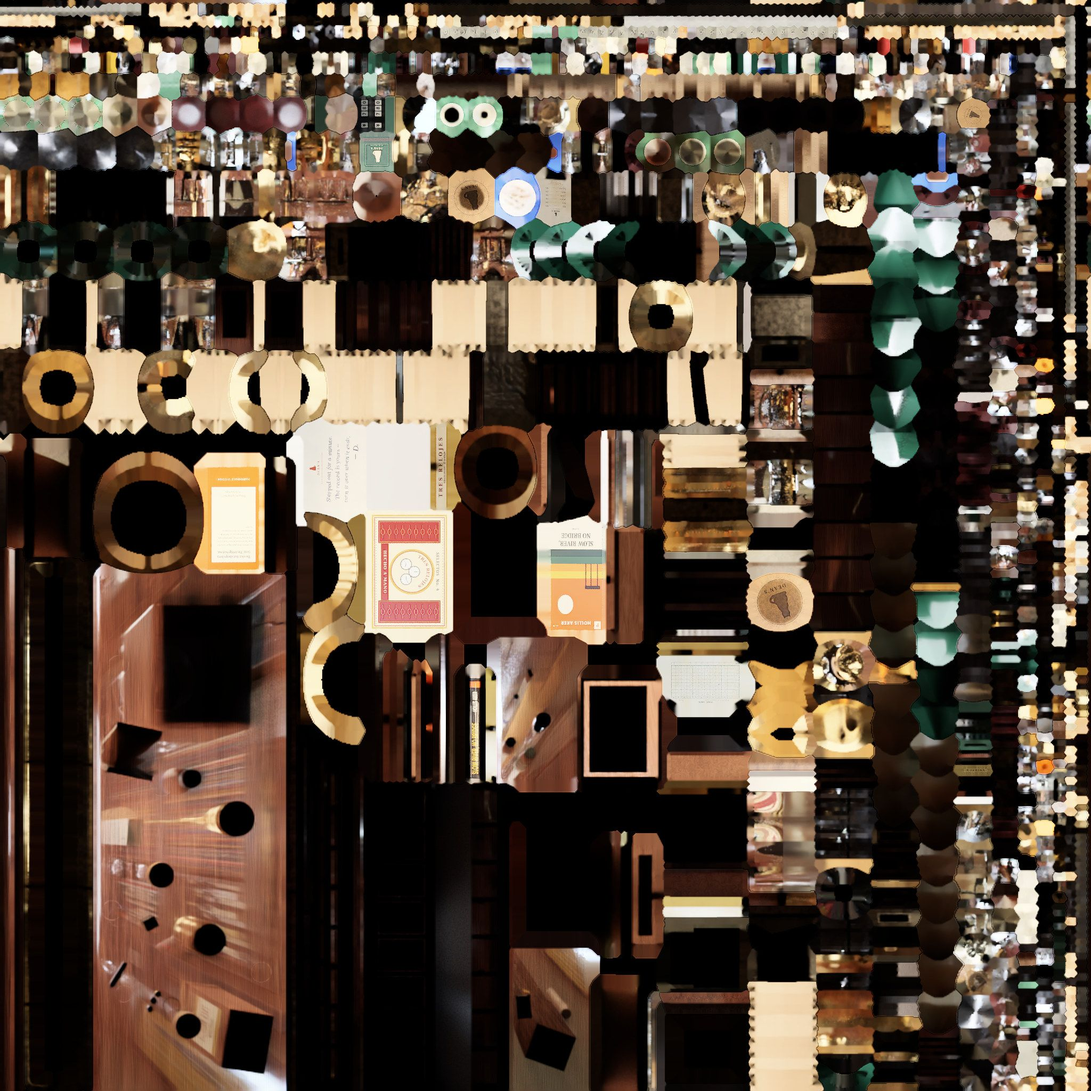
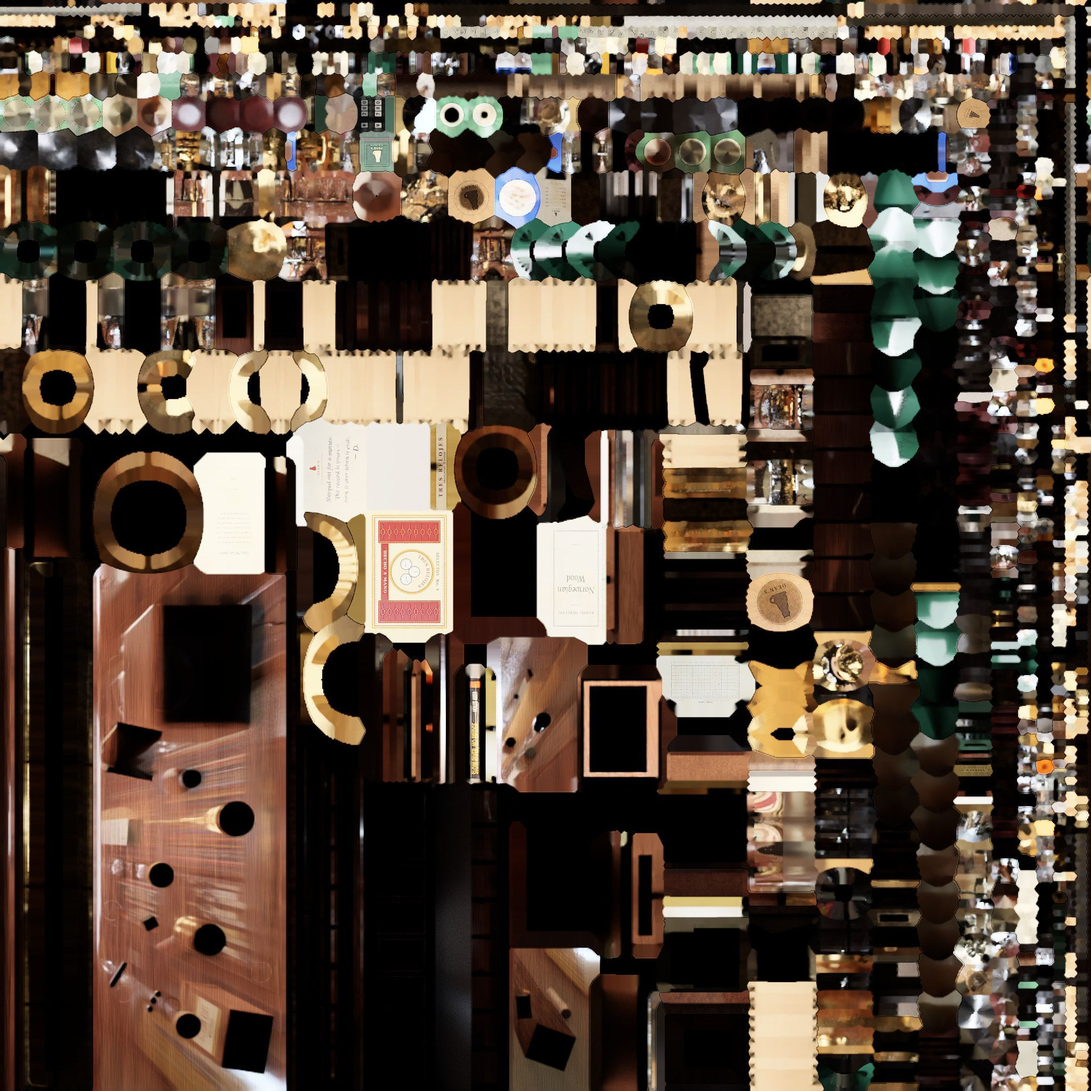
Paperback on the counter: Norwegian Wood, plain typographic cover
Replaces the invented, illustrated paperback with a quiet cream-and-green
cover for Haruki Murakami's Norwegian Wood and updates the Currently
reading panel. Only the two cover islands of the counter bake are
replaced; the rest of counter_{night,day}.jpg is untouched.

Claude-Session: https://claude.ai/code/session_01Q5tZYtXFDhKRGtgnphfBLn

Changed region(s): [[0.1562, 0.4062, 0.25, 0.5312], [0.4688, 0.5, 0.5625, 0.5938]]

diff --git a/site/content.js b/site/content.js
@@ -188,9 +188,9 @@ export const ODDS = {
 
 // ---------------------------------------------------------------- the paperback on the counter
 export const PAPERBACK = {
-  title: 'Seven Rooms Below the Station', author: 'Haru Okabe', price: '¥480', page: 'p. 211 of 340',
-  blurb: 'A night porter at a station hotel discovers that the service lift stops at a floor that is not on any plan. He decides not to mention it. Then he decides to go and look.',
-  note: 'Reading it slowly, one chapter after closing. Halfway through and still not sure whether it is a ghost story or a book about work. Possibly both. (Invented book; sample content.)',
+  title: 'Norwegian Wood', author: 'Haruki Murakami', price: '¥480', page: 'p. 142',
+  blurb: 'Tokyo, the late sixties. A quiet student is caught between two young women: one slowly withdrawing from the world, one who walks straight into his life. Years later, a song heard by chance brings it all back.',
+  note: 'Reading it again, one chapter after closing. It reads differently down here, with a record still turning. (Sample note.)',
 };
 
 // ---------------------------------------------------------------- the pay phone: contact

diff --git a/blender/parts/counter/tex.py b/blender/parts/counter/tex.py
@@ -349,69 +349,59 @@ def p_keys(w, h):
     return im
 
 def p_book(w, h):
-    """full cover spread: back | spine | front ; 1970s paperback, worn"""
+    """full cover spread: back | spine | front ; a plain, well-read paperback of Norwegian Wood (typographic, no art)"""
     bw = int(w * 0.465); sw = w - 2 * bw   # back, spine, front widths
-    org = (196, 88, 30); mus = (214, 162, 52); grn = (40, 72, 52); crm = (236, 222, 190); dk = (30, 20, 16)
-    im = Image.new('RGBA', (w, h), (*org, 255)); d = ImageDraw.Draw(im)
-    # FRONT (right): flat 70s illustration: river bands, a pale moon, a broken bridge stub
+    crm = (230, 221, 198); grn = (34, 58, 44); ink = (32, 28, 24); mut = (96, 104, 92)
+    im = paper(w, h, crm, seed=94, grain=7, stain=0.35).convert('RGBA'); d = ImageDraw.Draw(im)
     fx = bw + sw
-    d.rectangle((fx, 0, w, h), fill=(*org, 255))
-    for k, c in enumerate([mus, (226, 120, 40), grn, (24, 46, 38)]):
-        y0 = int(h * (0.50 + 0.07 * k))
-        d.rectangle((fx, y0, w, y0 + int(h * 0.07)), fill=(*c, 255))
-    d.rectangle((fx, int(h * 0.78), w, h), fill=(*crm, 255))
-    d.ellipse((fx + bw * 0.55, h * 0.16, fx + bw * 0.85, h * 0.16 + bw * 0.30), fill=(*crm, 255))
-    d.rectangle((fx + bw * 0.04, h * 0.40, fx + bw * 0.32, h * 0.43), fill=(*dk, 255))       # bridge deck that stops
-    for px in (0.08, 0.2, 0.30): d.rectangle((fx + bw * px, h * 0.43, fx + bw * px + 8, h * 0.64), fill=(*dk, 255))
-    text_c(d, fx + bw / 2, h * 0.04, "HOLLIS AKER", F(F_POP_B, int(h * 0.05)), (*crm, 255), spacing=3)
-    text_c(d, fx + bw / 2, h * 0.795, "SLOW RIVER,", F(F_CAL_B, int(h * 0.07)), (*dk, 255))
-    text_c(d, fx + bw / 2, h * 0.87, "NO BRIDGE", F(F_CAL_B, int(h * 0.07)), (*dk, 255))
-    text_c(d, fx + bw / 2, h * 0.955, "a novel", F(F_CAL_I, int(h * 0.03)), (*dk, 255))
-    d.rectangle((fx + 14, 14, fx + 70, 70), fill=(*crm, 255)); text_c(d, fx + 42, 22, "P", F(F_SERIF_B, 36), (*org, 255))
-    text_c(d, w - 50, 26, "$1.50", F(F_SANS_B, 18), (*crm, 255))
-    # SPINE
-    d.rectangle((bw, 0, bw + sw, h), fill=(*dk, 255))
+    # FRONT (right): thin green frame, author, title, nothing else
+    m = int(bw * 0.07)
+    d.rectangle((fx + m, m, w - m, h - m), outline=(*grn, 255), width=3)
+    d.rectangle((fx + m + 9, m + 9, w - m - 9, h - m - 9), outline=(*grn, 200), width=1)
+    cx = fx + bw / 2
+    text_c(d, cx, h * 0.15, "HARUKI MURAKAMI", lora(int(h * 0.034), wght=500), (*ink, 255), spacing=5)
+    d.line((cx - bw * 0.10, h * 0.245, cx + bw * 0.10, h * 0.245), fill=(*grn, 255), width=2)
+    text_c(d, cx, h * 0.33, "Norwegian", lora(int(h * 0.088), italic=True, wght=500), (*grn, 255))
+    text_c(d, cx, h * 0.44, "Wood", lora(int(h * 0.088), italic=True, wght=500), (*grn, 255))
+    text_c(d, cx, h * 0.80, "a novel", lora(int(h * 0.032), italic=True), (*mut, 255))
+    # SPINE: deep green, cream lettering
+    d.rectangle((bw, 0, bw + sw, h), fill=(*grn, 255))
     sp = Image.new('RGBA', (h, sw), (0, 0, 0, 0)); ds = ImageDraw.Draw(sp)
-    ds.text((h * 0.05, sw * 0.18), "SLOW RIVER, NO BRIDGE", font=F(F_POP_B, int(sw * 0.46)), fill=(*mus, 255))
-    ds.text((h * 0.66, sw * 0.24), "HOLLIS AKER", font=F(F_POP_B, int(sw * 0.36)), fill=(*crm, 255))
-    ds.rectangle((h * 0.90, sw * 0.12, h * 0.96, sw * 0.88), fill=(*org, 255))
+    ds.text((h * 0.06, sw * 0.22), "NORWEGIAN WOOD", font=lora(int(sw * 0.40), wght=600), fill=(*crm, 255))
+    ds.text((h * 0.70, sw * 0.28), "MURAKAMI", font=lora(int(sw * 0.32), wght=500), fill=(*crm, 235))
     im.alpha_composite(sp.rotate(-90, expand=True), (bw, 0))
-    # BACK (left): blurb in a cream panel
-    d.rectangle((0, 0, bw, h), fill=(*org, 255))
-    d.rectangle((bw * 0.08, h * 0.08, bw * 0.92, h * 0.80), fill=(*crm, 255))
-    fb = F(F_CAL_B, int(h * 0.034)); fs = F(F_CAL, int(h * 0.022))
-    text_c(d, bw / 2, h * 0.11, "The river had always been", fb, (*dk, 255))
-    text_c(d, bw / 2, h * 0.155, "there. The bridge had not.", fb, (*dk, 255))
-    words = ("one summer a ferryman's daughter counts the boats that never come back and the letters that keep arriving "
-             "from a town upstream which no map in the house admits to and her brother insists the water runs the wrong way "
-             "on tuesdays").split()
-    y = h * 0.23; line = ''
+    # BACK (left): a few lines of plain blurb, the price
+    fb = lora(int(h * 0.036), italic=True, wght=500); fs = lora(int(h * 0.026))
+    text_c(d, bw / 2, h * 0.14, "Tokyo, the late sixties.", fb, (*grn, 255))
+    words = ("A quiet student remembers the year he was caught between two young women: one who was slowly "
+             "withdrawing from the world, and one who walked straight into his life. Years later, a song "
+             "heard by chance brings all of it back.").split()
+    y = h * 0.25; line = ''
     for wd in words:
-        if d.textlength(line + ' ' + wd, font=fs) > bw * 0.72:
-            d.text((bw * 0.14, y), line.strip(), font=fs, fill=(*dk, 230)); y += h * 0.034; line = ''
+        if d.textlength(line + ' ' + wd, font=fs) > bw * 0.70:
+            text_c(d, bw / 2, y, line.strip(), fs, (*ink, 235)); y += h * 0.046; line = ''
         line += ' ' + wd
-    d.text((bw * 0.14, y), line.strip(), font=fs, fill=(*dk, 230))
-    text_c(d, bw / 2, h * 0.70, "“Strange and quietly exact.”", F(F_CAL_I, int(h * 0.026)), (*dk, 255))
-    text_c(d, bw / 2, h * 0.74, "— The Harbour Ledger", F(F_CAL, int(h * 0.022)), (*dk, 220))
-    text_c(d, bw / 2, h * 0.86, "PIGEONHOLE  FICTION", F(F_SANS_B, int(h * 0.028)), (*crm, 255), spacing=3)
-    # wear: cracked spine creases, whitened edges, faint coffee ring on the back
+    text_c(d, bw / 2, y, line.strip(), fs, (*ink, 235))
+    d.line((bw * 0.42, h * 0.78, bw * 0.58, h * 0.78), fill=(*grn, 255), width=2)
+    text_c(d, bw / 2, h * 0.86, "\u00a5480", lora(int(h * 0.030), wght=500), (*mut, 255))
+    # wear: cracked spine creases, whitened hinges, faint coffee ring on the back
     a = np.asarray(im).astype(np.float32)
     r = np.random.default_rng(91)
     for k in range(7):
         x = bw + sw * (0.15 + 0.7 * r.random()); y0 = r.random() * h * 0.3; y1 = h - r.random() * h * 0.3
         L = Image.new('L', (w, h), 0); ImageDraw.Draw(L).line((x, y0, x + r.normal() * 3, y1), fill=255, width=2)
-        m = np.asarray(L.filter(ImageFilter.GaussianBlur(0.8))).astype(np.float32)[..., None] / 255 * 0.7
-        a[..., :3] = a[..., :3] * (1 - m) + np.array(crm) * m
+        mm = np.asarray(L.filter(ImageFilter.GaussianBlur(0.8))).astype(np.float32)[..., None] / 255 * 0.6
+        a[..., :3] = a[..., :3] * (1 - mm) + np.array(crm) * mm
     for xe in (bw, bw + sw):                                  # hinge creases
         L = Image.new('L', (w, h), 0); ImageDraw.Draw(L).line((xe, 0, xe, h), fill=255, width=3)
-        m = np.asarray(L.filter(ImageFilter.GaussianBlur(1.5))).astype(np.float32)[..., None] / 255 * 0.45
-        a[..., :3] = a[..., :3] * (1 - m) + np.array(crm) * m
+        mm = np.asarray(L.filter(ImageFilter.GaussianBlur(1.5))).astype(np.float32)[..., None] / 255 * 0.45
+        a[..., :3] = a[..., :3] * (1 - mm) + np.array(crm) * mm
     yy, xx = np.mgrid[0:h, 0:w]
     ring = np.abs(np.hypot(xx - bw * 0.62, yy - h * 0.86) - bw * 0.26)
-    rm = np.clip(1 - ring / 5, 0, 1) * 0.35 * fbm(h, w, (30, 8), 92)
+    rm = np.clip(1 - ring / 5, 0, 1) * 0.30 * fbm(h, w, (30, 8), 92)
     a[..., :3] *= 1 - rm[..., None] * np.array([0.25, 0.4, 0.6])
     im = Image.fromarray(np.clip(a, 0, 255).astype(np.uint8))
-    return wear_edges(im, 0.55, 93, (232, 218, 186), 7)
+    return wear_edges(im, 0.5, 93, (238, 230, 210), 7)
 
 def p_score(w, h):
     im = paper(w, h, (232, 228, 210), seed=101, grain=6, stain=0.4).convert('RGBA'); d = ImageDraw.Draw(im)
